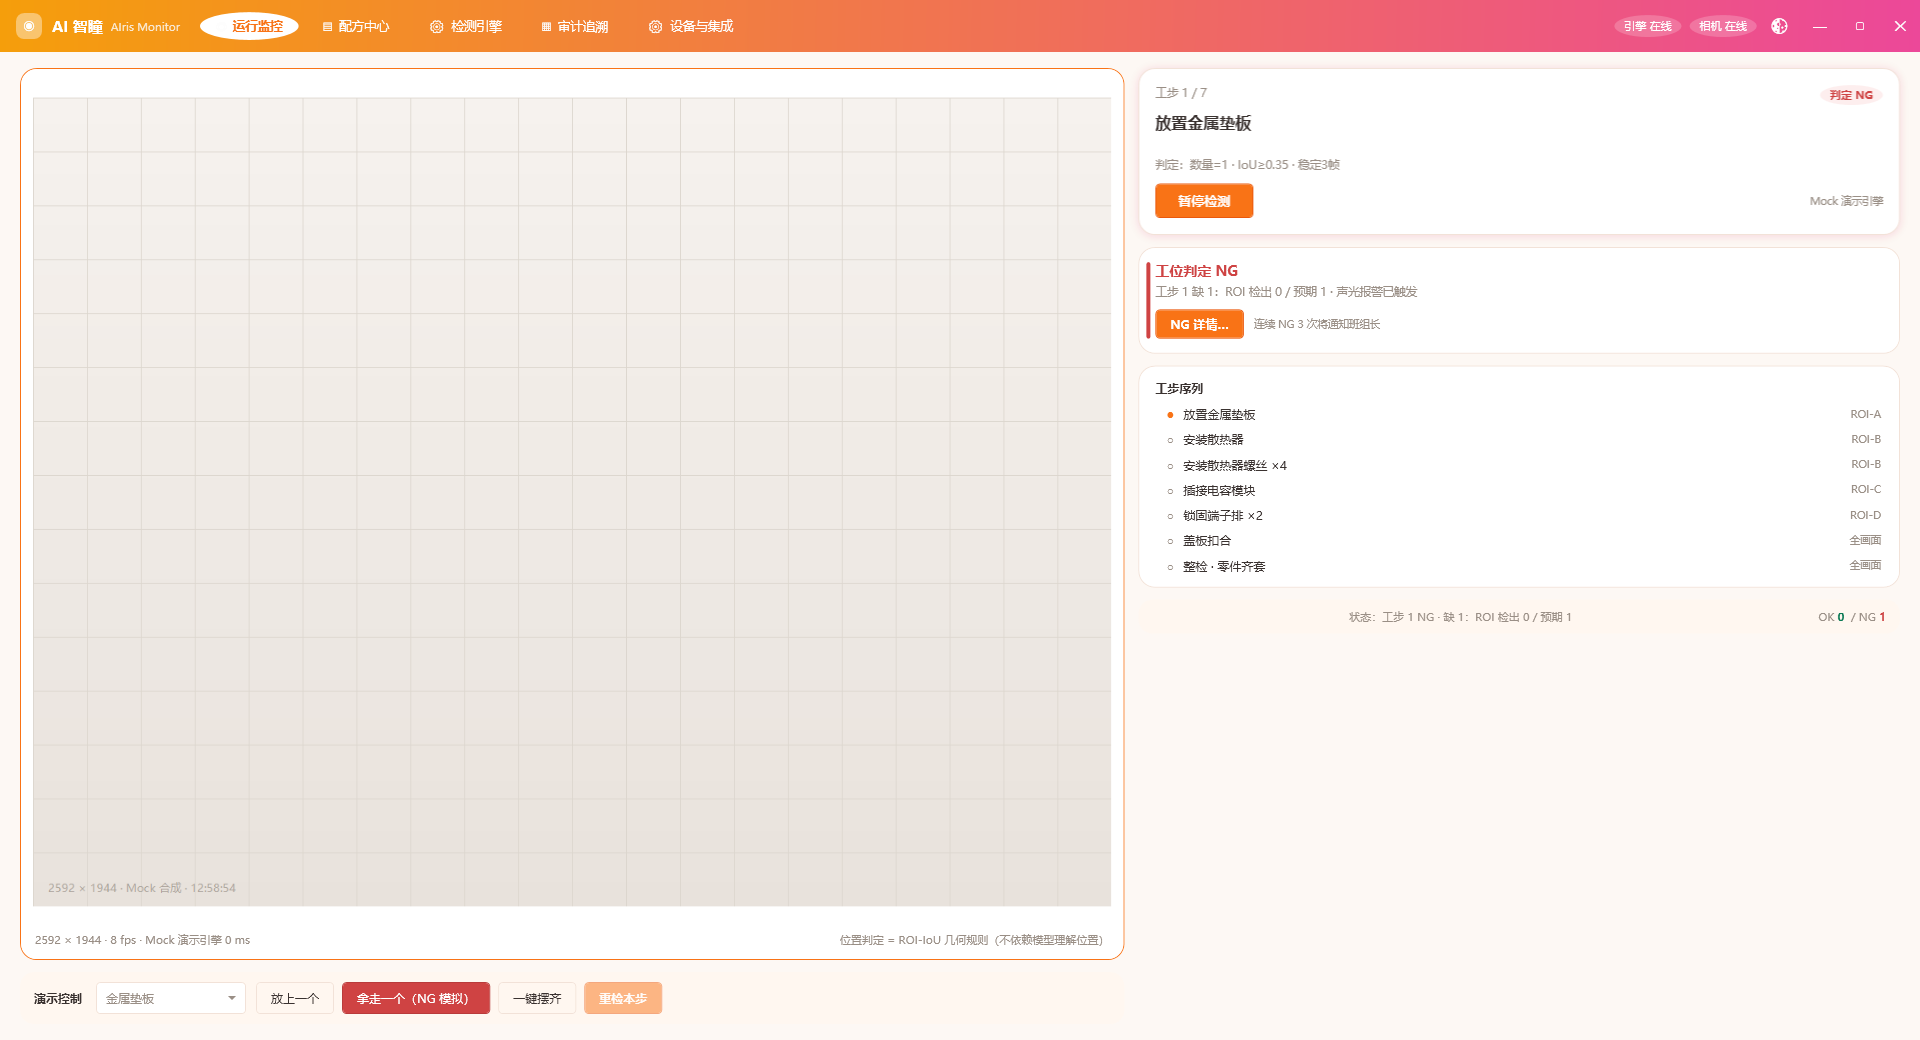
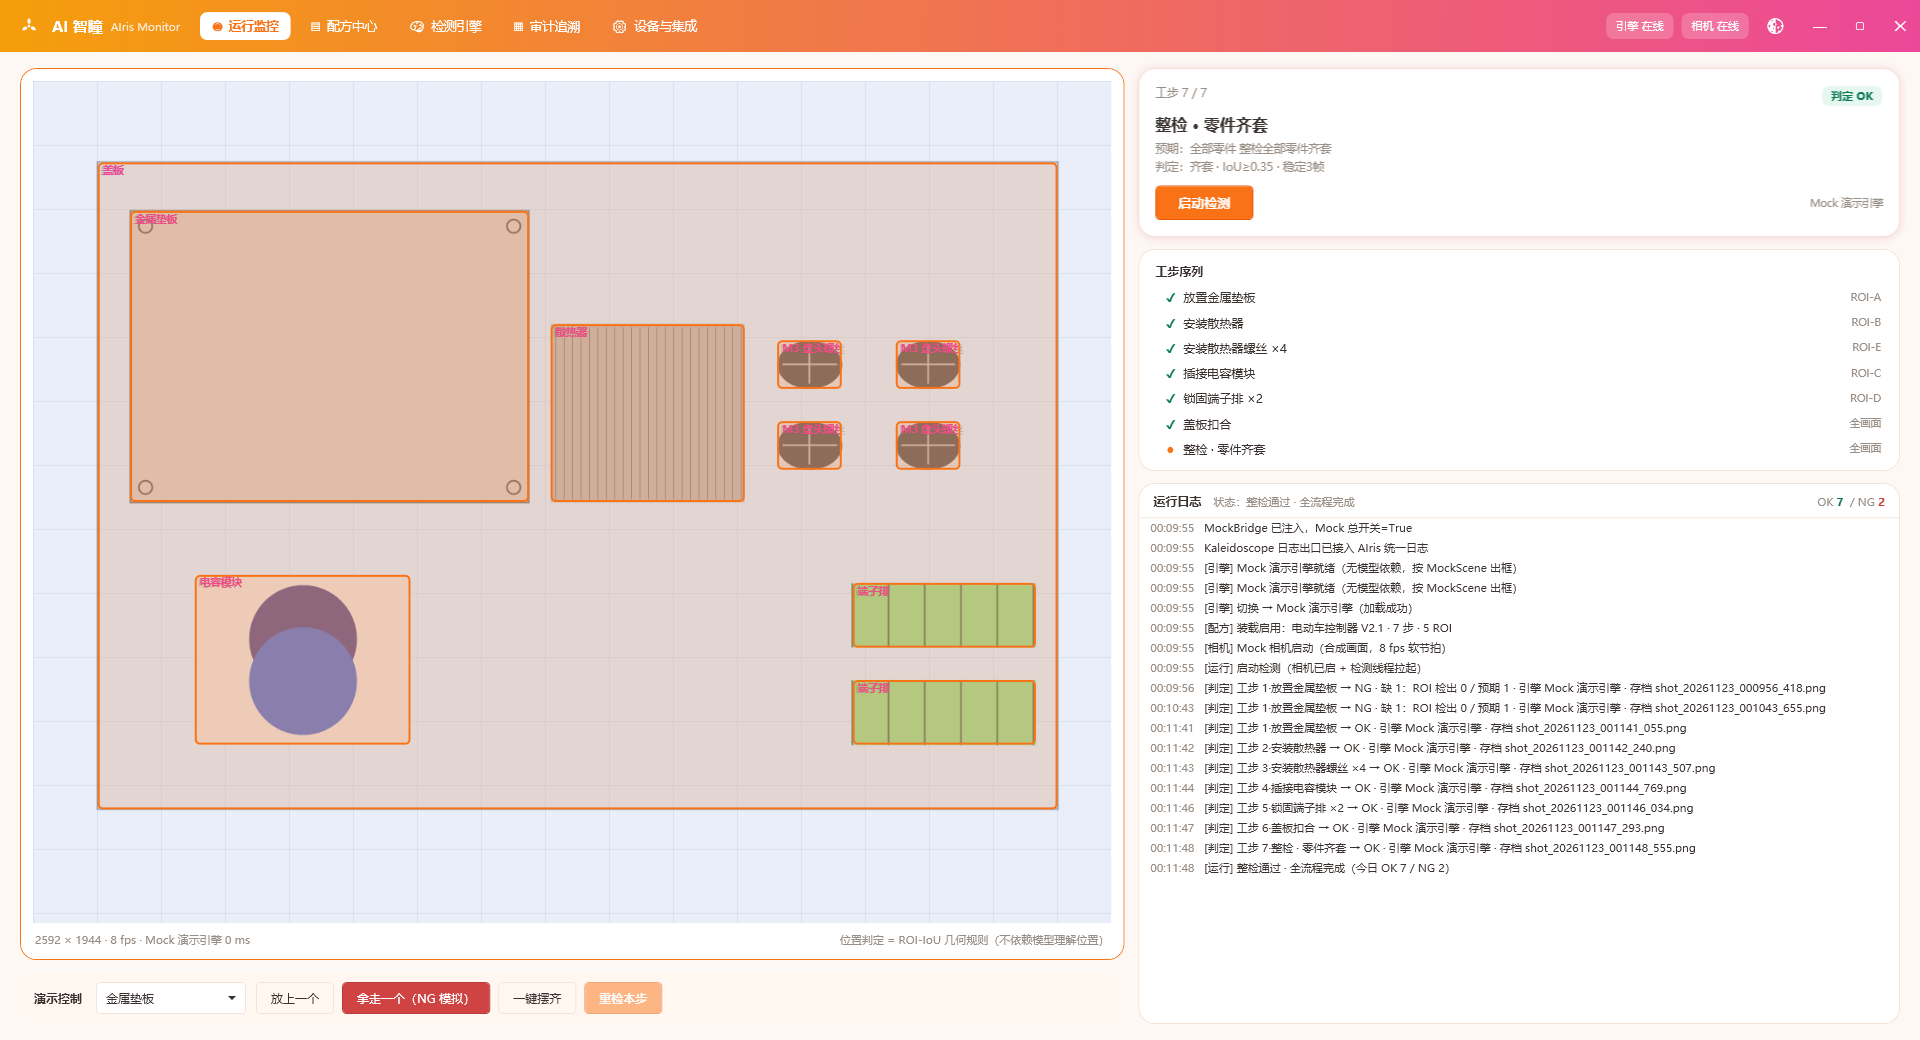
V0.1.10（2026-11-23）README 全量重写（最新实拍图 + 逐章节对齐 V0.1.9 现状）+ 演示配方 ROI 与 Mock 布局对齐修复
对应 CHANGELOG.md 最新版本条目：V0.1.10（2026-11-23）README 全量重写（最新实拍图 + 逐章节对齐 V0.1.9 现状）+ 演示配方 ROI 与 Mock 布局对齐修复

· 一、README 重写（readme skill 流程：事实摸底 → 重拍截图 → 逐章节落稿 → 双脚本核验全 PASS）
  - 版本徽章：V0.1.0-POC → V0.1.9；「检测引擎-留桩待接入」→「可插拔·四协议接入」；
  - 界面速览换 6 张最新实拍图（旧 5 张实为 13:00 拍摄、切页点击坐标失效全成了监控台画面）： 监控台（全流程 7 步 OK 完成态）/ 配方编辑器（新增，自然语言工步 + ROI 拖拽标画）/ 配方中心 / 检测引擎（三卡 + 四协议参数 + 服务状态）/ 审计追溯（1…
  - 特性段对齐 V0.1.7~V0.1.9：补 ROI 拖拽标画（拖框/手柄/拖画）、推理协议层沉库 Kaleidoscope.Infer 四协议、未接入回落可见化（顶栏胶囊/信息行 →Mock/审计 EngineName 如实记录）；
  - 「大模型接入（留桩说明）」整节重写为「大模型接入」：留桩已不存在——HttpDetectionEngine 已是 InferClient 薄适配；改为四协议部署形态表（自研 /detect、OpenAI 兼容、Anthropic、Ollama 各带探活端点）+ groundin…
  - 文档导航补 docs/KxImageStage取像舞台控件方案.md；配置段按 MainSetting.ini 实键核对 （[Theme] IsDark / [Engine] 九键），删除不存在的笼统描述；
  - 核验：img_inventory.py RESULT OK（无死引用）+ check_readme.py NG=0 WARN=0。
· 二、顺手修复：演示配方 ROI 与 MockScene 布局错位（Mock 全流程此前无法 7 步全 OK）
  - 根因：运行数据配方「电动车控制器 V2.1」的 ROI 在 V0.1.7 调试拖拽后存了盘（ROI-B 被拖到 (650,260)），与 MockScene 硬编码布局（散热器 (480,280)-(660,500)）错位 → 工步 2 IoU≈0.02 永远 NG；且工步 3…
  - 修复（运行数据 JSON，按 Description「与 Mock 演示布局对齐」的应然状态）： ROI-B 回归贴散热器 (470,270,200,240)（IoU≈0.83）；新增 ROI-E 贴 4 颗螺丝凸包 (690,300,170,160)、 工步 3 RoiId…
  - 实测：一键摆齐 → 重检本步 → 工步 1~7 全部 OK 自动推进，「整检通过 · 全流程完成」（OK 7）， 审计落档 8 OK / 5 NG（NG 为修复前真实判定记录，追溯链完整）；
  - 遗留待办（本轮不修）：编辑器 ROI 标画区取像帧（4:3 letterbox 竖条居中）与 ROI 框 （映射整个超宽舞台）坐标口径错位——V0.1.7 曾验证「垫板出现在 ROI-A 框内」，现状不对齐， 待查 Views\FrameRect.cs 在编辑器舞台（约 6.7…

diff --git a/README.md b/README.md
@@ -6,8 +6,8 @@
 
 ![.NET Framework](https://img.shields.io/badge/.NET%20Framework-4.7.2-5C2D91?logo=dotnet)
 ![UI](https://img.shields.io/badge/UI-WPF%20·%20MVVM-blue)
-![检测引擎](https://img.shields.io/badge/检测引擎-可插拔·留桩待接入-f97316)
-![版本](https://img.shields.io/badge/版本-V0.1.0--POC-ec4899)
+![检测引擎](https://img.shields.io/badge/检测引擎-可插拔·四协议接入-f97316)
+![版本](https://img.shields.io/badge/版本-V0.1.9-ec4899)
 
 相机盯着工位，用**自然语言 + 配方**告诉 AI 检测什么、怎么判定，输出工步引导与 OK/NG 防错判定，
 全部本地离线部署。装配防错是首个落地场景，同一套引擎适配安全监控、缺料提醒、SOP 合规等广泛场景。
@@ -30,6 +30,10 @@ git clone --recurse-submodules https://github.com/lq700212/AIris.git
 
 # 3) 回归探针（改动判定逻辑后必跑）
 powershell -File Tools\probe_ng_semantic.ps1
+
+# 4) UI 目检（截图落 Tools\Shots\）+ 物理实点回归（验证按钮真的可点）
+powershell -File Tools\shot_ui.ps1 monitor,recipe,engine,audit,settings
+powershell -File Tools\click_ui.ps1 -x 349 -y 25
 ```
 
 > 运行目录 `00_ExeBuild\` 下的配方/审计存档/MainSetting.ini 是现场数据，不入库；
@@ -37,58 +41,67 @@ powershell -File Tools\probe_ng_semantic.ps1
 
 ## 界面速览
 
-| 运行监控台 —— 画面叠加 + 工步引导 + NG 告警 | 配方中心 —— 每产品一份配方，零代码换型 |
+| 运行监控台 —— 画面叠加 + 工步引导 + 演示控制 | 配方编辑器 —— 自然语言工步 + ROI 拖拽标画 |
 | --- | --- |
-| ![运行监控台](docs/images/ui_monitor.png) | ![配方中心](docs/images/ui_recipe.png) |
-| **检测引擎** —— 可插拔引擎卡 + 许可证直标 | **审计追溯** —— 每步截图存档，客诉举证直接调档 |
-| ![检测引擎](docs/images/ui_engine.png) | ![审计追溯](docs/images/ui_audit.png) |
-| **设备与集成** —— 相机 / 光源 / 引导屏 / 声光 / MES | |
-| ![设备与集成](docs/images/ui_settings.png) | |
+| ![运行监控台](docs/images/ui_monitor.png) | ![配方编辑器](docs/images/ui_editor.png) |
+| **配方中心** —— 每产品一份配方，零代码换型 | **检测引擎** —— 三引擎卡 + 四协议推理参数 + 服务状态 |
+| ![配方中心](docs/images/ui_recipe.png) | ![检测引擎](docs/images/ui_engine.png) |
+| **审计追溯** —— 每步截图存档，客诉举证直接调档 | **设备与集成** —— 相机 / 光源 / 引导屏 / 声光 / MES |
+| ![审计追溯](docs/images/ui_audit.png) | ![设备与集成](docs/images/ui_settings.png) |
 
 ## 特性
 
-- **自然语言配方**：预期零件用一句话描述（如"4 颗 M3 盘头螺丝"），改这句话就换检测目标，零标注训练；
+- **自然语言配方**：预期零件用一句话描述（如"4 颗 M3 盘头螺丝"），改这句话就换检测目标，零标注训练；ROI 判定区域直接在**实际取像上拖拽标画**（拖框移动 / 四角手柄缩放 / 空白拖画新框）；
 - **确定性判定**：位置判定走 ROI-IoU 几何规则 × 数量校验 × 连续 N 帧稳定，不依赖模型"理解"位置，可审计；
-- **引擎可插拔**：POC 用 LocateAnything-3B 摸效果上限，产品化切 Qwen2.5-VL-7B（Apache 2.0），许可证状态直接写在引擎卡上；
+- **引擎可插拔**：内置 Mock / LocateAnything-3B（POC）/ Qwen2.5-VL-7B（商用推荐）三张引擎卡，许可证状态直接写在卡上；推理协议层沉库 `Kaleidoscope.Infer`，四协议（OpenAI 兼容 / Anthropic / Ollama / 自研 /detect）换部署形态只改下拉框；
+- **未接入不尬演**：真实引擎探活失败时检测自动回落 Mock 演示——顶栏状态胶囊明示"回落 Mock"、画面信息行标注 `→Mock`、审计 `EngineName` 如实记录替身出框；
 - **工步状态机**：按配方步序引导装配，OK 自动推进 / NG 挂起告警 / 人工重检闭环；
 - **质量追溯链**：每个工步判定自动截图存档（JSONL 按天 + PNG），规则快照随档可复核；
-- **全流程可演示**：内置 Mock 相机 + Mock 检测引擎 + 演示控制条，无硬件即可演示完整防错闭环；
-- **明暗双主题**：C 方案「熔金流场」视觉体系，顶栏 🌓 一键切换。
+- **全流程可演示**：内置 Mock 相机 + Mock 检测引擎 + 演示控制条（放上一个 / 拿走一个 / 一键摆齐 / 重检本步），无硬件即可演示完整防错闭环；
+- **明暗双主题**：C 方案「熔金流场」视觉体系（取像舞台扫描动效 / 胶囊导航 / 真圆角窗壳），顶栏 🌓 一键切换。
 
 ## 架构
 
 ```mermaid
 graph LR
     subgraph WPF["AIris.WPF（MVVM 壳）"]
-        UI["运行监控台 / 配方 / 引擎 / 审计 / 设备"]
+        UI["运行监控台 / 配方 / 编辑器 / 引擎 / 审计 / 设备"]
     end
     subgraph CORE["AIris.Core（纯逻辑）"]
         CAM["ICameraSource 采集"] --> MON["RunMonitor 编排"]
         MON --> ENG["IDetectionEngine 检测"]
-        MON --> JUDGE["JudgeEngine 判定"]
+        MON --> JUDGE["JudgeEngine 判定（ROI-IoU 几何规则）"]
         MON --> STEP["WorkstepEngine 工步状态机"]
         MON --> AUD["IAuditStore 存档"]
     end
     subgraph KAL["ThirdParty/Kaleidoscope（git submodule）"]
-        KUI["Kaleidoscope.UI：圆角窗骨架 / 弹窗基类 / Kx 样式族"]
-        KLIB["Kaleidoscope：海康/大恒相机适配器 / SQLite 存储 / PLC 通讯"]
+        KUI["Kaleidoscope.UI：圆角窗骨架 / 弹窗基类 / Kx 样式族 / KxImageStage 取像舞台"]
+        KLIB["Kaleidoscope：海康/大恒相机适配器 / SQLite 存储 / PLC 通讯 / Infer 推理协议层"]
     end
     UI --> MON
     UI -.->|"窗壳 / 弹窗 / 样式复用"| KUI
-    CORE -.->|"真机相机 / 存储可切"| KLIB
+    CORE -.->|"真机相机 / 存储 / 推理协议可切"| KLIB
 ```
 
-- **检测引擎是唯一接入面**：真实模型接入 = 实现 `IDetectionEngine`（或填实 `HttpDetectionEngine` 的服务调用），UI/判定/审计零改动；
+- **检测引擎是唯一接入面**：真实模型接入 = 实现 `IDetectionEngine`；`HttpDetectionEngine` 已填实为 `InferClient` 薄适配（V0.1.7），换部署形态（vLLM ↔ llama.cpp ↔ Ollama ↔ 自研 FastAPI）= 改引擎页下拉框，UI/判定/审计零改动；
 - **相机同理**：真机实现 `ICameraSource`（或包一层 Kaleidoscope 相机适配器），Mock 三件套保留作演示与回归；
-- **壳与控件复用**：主窗圆角骨架（分层真圆角 + 最大化归零）、弹窗基类、Kx 样式族全部来自 submodule `ThirdParty/Kaleidoscope`（Kaleidoscope.UI），AIris 只写页面与主题；Kaleidoscope 主库的相机适配器 / 存储 / 通讯是 Core 层真机接入时的现成选件。
+- **壳与控件复用**：主窗圆角骨架（分层真圆角 + 最大化归零）、弹窗基类、Kx 样式族、取像舞台控件（扫描动效 / 网格 / 叠加画布）全部来自 submodule `ThirdParty/Kaleidoscope`，AIris 只写页面与主题。
 
-## 大模型接入（留桩说明）
+## 大模型接入
 
-检测引擎尚未接入（V0.1.0 全流程由 Mock 三件套驱动）。与推理服务约定一个 HTTP 契约即可完成接入，
-请求/响应格式与改造点见 [`AIris.Core/Detection/HttpDetectionEngine.cs`](AIris.Core/Detection/HttpDetectionEngine.cs) 文件头注释：
+推理链路已具备（V0.1.7 起四协议直连推理服务）：引擎页选卡 → 填服务地址 / 模型名 / API Key →
+「测试连接」探活 → 应用配置（热重载）。**服务未部署时自动回落 Mock 演示，流程不中断**。
 
-- 请求：`{ "model", "prompts", "image_b64" }` → POST `/detect`；
-- 响应：`{ "ok", "detections": [{ "label", "x1", "y1", "x2", "y2" }] }`（坐标 0~1000 归一化，不含置信度）。
+| 推理协议 | 部署形态 | 探活端点 |
+| --- | --- | --- |
+| 自研 /detect | 自研 FastAPI（locateanything-batch） | `/health` |
+| OpenAI 兼容 | vLLM / llama.cpp 等（Qwen2.5-VL 推荐） | `/v1/models` |
+| Anthropic | Claude 系视觉接口 | 配置即就绪 |
+| Ollama | 本地 Ollama（裸 base64 图像） | `/api/tags` |
+
+- 检测请求统一走 grounding prompt（三句式定格式），回包解析为 **0~1000 归一化框**（JSON `bbox_2d` 或 `<box>` 标签两种形态自动兼容），**无置信度字段**——全链路判定只走 ROI-IoU 几何规则；
+- 协议细节与改造点见 [`AIris.Core/Detection/HttpDetectionEngine.cs`](AIris.Core/Detection/HttpDetectionEngine.cs) 与沉库的 `ThirdParty/Kaleidoscope/Kaleidoscope/Infer/`；
+- 模型选型 / 许可证风险 / 硬件三档见 [调研报告](docs/AIris调研报告.md)。
 
 ## 目录树
 
@@ -96,9 +109,9 @@ graph LR
 AIris/
 ├── AIris.Core/            # 纯逻辑层：模型 / 检测引擎 / 相机 / 判定 / 工步 / 存储
 ├── AIris.WPF/             # WPF 主工程（MVVM：Views/ViewModels/Services/Styles）
-├── ThirdParty/Kaleidoscope/  # git submodule：自研通讯库 + WPF 控件库（UI 复用）
-├── docs/                  # 调研报告 + UI 设计稿（C 方案落地蓝本）+ images/
-├── Tools/                 # 回归探针 + PrintWindow 截图脚本 + 目检素材
+├── ThirdParty/Kaleidoscope/  # git submodule：自研通讯库 + WPF 控件库 + 推理协议层（UI 复用）
+├── docs/                  # 调研报告 + UI 设计稿（C 方案落地蓝本）+ 取像舞台方案 + images/
+├── Tools/                 # 回归探针 + 截图/实点脚本 + 目检素材
 └── 00_ExeBuild/           # 编译输出兼运行目录（配方/审计/INI 现场数据，不入库）
 ```
 
@@ -106,12 +119,17 @@ AIris/
 
 | 文档 | 说明 |
 | --- | --- |
-| [AIris 调研报告](docs/AIris调研报告.md) | 模型选型 / 许可证风险 / 推理框架 / 硬件三档 / 通用化架构（九章节） |
+| [AIris 调研报告](docs/AIris调研报告.md) | 模型选型 / 许可证风险 / 推理框架 / 硬件三档 / 通用化架构（九章节 + 开发进度） |
 | [UI 设计稿](docs/ui_design_mockups.html) | 5 方案 × 明暗主题可交互工作台（本仓库落地的是 C 方案「熔金流场」） |
+| [KxImageStage 取像舞台控件方案](docs/KxImageStage取像舞台控件方案.md) | 沉库控件的设计 / 键板契约 / 性能护栏实测 |
 | [AGENTS.md](AGENTS.md) | AI 助手工程指南（铁律 / Mock 三件套 / 构建与验证命令） |
 
 ## 配置
 
-配置集中在运行目录 `00_ExeBuild\MainSetting\MainSetting.ini`（设备/引擎/主题开关），
-全部有缺省值，缺文件自动回缺省；配方在 `Data\Recipes\`（JSON）、审计在 `Data\Audit\`。
+配置集中在运行目录 `00_ExeBuild\MainSetting\MainSetting.ini`，全部有缺省值，缺文件自动回缺省：
+
+- `[Theme]`：`IsDark` 明暗主题开关（顶栏 🌓 切换后落盘）；
+- `[Engine]`：当前引擎 `ActiveEngineId`、推理协议 `Protocol`、服务地址 / 模型 / Key、超时、解码模式、批处理大小、语义决策开关（默认关）。
+
+配方在 `Data\Recipes\`（JSON，含工步与 ROI 归一化坐标）、审计在 `Data\Audit\`（JSONL 按天 + PNG 截图）。
 逐键语义见 [`AGENTS.md`](AGENTS.md) 与「设备与集成」「检测引擎」两页界面。

diff --git a/CHANGELOG.md b/CHANGELOG.md
@@ -2,6 +2,39 @@
 
 > 版本史：最新在顶部。commit 前同轮工作只追加 `###` 小节不加版本号。
 
+## V0.1.10（2026-11-23）README 全量重写（最新实拍图 + 逐章节对齐 V0.1.9 现状）+ 演示配方 ROI 与 Mock 布局对齐修复
+
+### 一、README 重写（readme skill 流程：事实摸底 → 重拍截图 → 逐章节落稿 → 双脚本核验全 PASS）
+
+- **版本徽章**：V0.1.0-POC → V0.1.9；「检测引擎-留桩待接入」→「可插拔·四协议接入」；
+- **界面速览换 6 张最新实拍图**（旧 5 张实为 13:00 拍摄、切页点击坐标失效全成了监控台画面）：
+  监控台（全流程 7 步 OK 完成态）/ 配方编辑器（新增，自然语言工步 + ROI 拖拽标画）/ 配方中心 /
+  检测引擎（三卡 + 四协议参数 + 服务状态）/ 审计追溯（13 条命中 + 截图规则快照）/ 设备与集成；
+- **特性段对齐 V0.1.7~V0.1.9**：补 ROI 拖拽标画（拖框/手柄/拖画）、推理协议层沉库
+  `Kaleidoscope.Infer` 四协议、未接入回落可见化（顶栏胶囊/信息行 →Mock/审计 EngineName 如实记录）；
+- **「大模型接入（留桩说明）」整节重写为「大模型接入」**：留桩已不存在——HttpDetectionEngine
+  已是 InferClient 薄适配；改为四协议部署形态表（自研 /detect、OpenAI 兼容、Anthropic、Ollama
+  各带探活端点）+ grounding prompt 与 0~1000 归一化框口径 + 回落语义；
+- **文档导航**补 `docs/KxImageStage取像舞台控件方案.md`；**配置段**按 MainSetting.ini 实键核对
+  （[Theme] IsDark / [Engine] 九键），删除不存在的笼统描述；
+- 核验：`img_inventory.py` RESULT OK（无死引用）+ `check_readme.py` NG=0 WARN=0。
+
+### 二、顺手修复：演示配方 ROI 与 MockScene 布局错位（Mock 全流程此前无法 7 步全 OK）
+
+- **根因**：运行数据配方「电动车控制器 V2.1」的 ROI 在 V0.1.7 调试拖拽后存了盘（ROI-B 被拖到
+  (650,260)），与 MockScene 硬编码布局（散热器 (480,280)-(660,500)）错位 → 工步 2 IoU≈0.02 永远
+  NG；且工步 3（4 颗 60×60 小螺丝）与工步 2（180×220 散热器）共用 ROI-B 时，IoU≥0.35 对两者
+  **数学上不可能同时成立**（小零件对凸包 ROI 的 IoU 上限 ≈0.13）——演示配方从未真正配套；
+- **修复**（运行数据 JSON，按 Description「与 Mock 演示布局对齐」的应然状态）：
+  ROI-B 回归贴散热器 (470,270,200,240)（IoU≈0.83）；新增 ROI-E 贴 4 颗螺丝凸包 (690,300,170,160)、
+  工步 3 RoiId 改指 ROI-E 且 IoU 阈值 0.35→0.10（4 颗全过，matched=4）；ROI-D 贴端子排凸包
+  (760,600,170,200)（每颗 IoU=0.40）；ROI-A/ROI-C 本就配套不动；
+- **实测**：一键摆齐 → 重检本步 → 工步 1~7 全部 OK 自动推进，「整检通过 · 全流程完成」（OK 7），
+  审计落档 8 OK / 5 NG（NG 为修复前真实判定记录，追溯链完整）；
+- **遗留待办**（本轮不修）：编辑器 ROI 标画区取像帧（4:3 letterbox 竖条居中）与 ROI 框
+  （映射整个超宽舞台）坐标口径错位——V0.1.7 曾验证「垫板出现在 ROI-A 框内」，现状不对齐，
+  待查 `Views\FrameRect.cs` 在编辑器舞台（约 6.7:1 超宽）的映射基准。
+
 ## V0.1.9（2026-11-22）输入族字色修正：配置框不再像灰色占位文字 + 解码模式下拉补选项
 
 ### 一、输入框文字不醒目（用户目检反馈）
